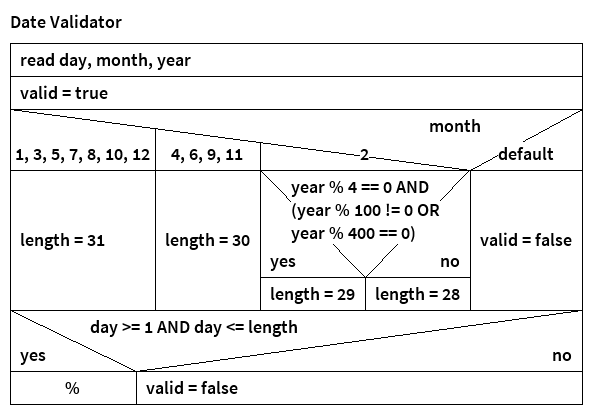
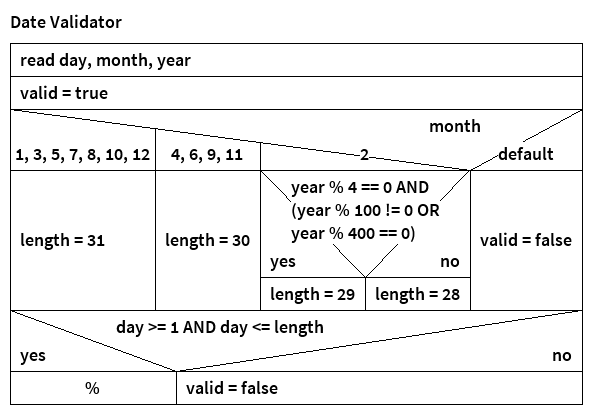
Fix branch layout bug.

diff --git a/src/eu/greenlightning/nsdg/elements/Branch.java b/src/eu/greenlightning/nsdg/elements/Branch.java
@@ -61,7 +61,7 @@ public class Branch implements Element {
 
 	@Override
 	public void paint(Graphics2D g, int width, int height) {
-		double leftPercentage = left.getChild().getWidth(g) / (double) getLabelledWidth(g);
+		double leftPercentage = left.getWidth(g, 10) / (double) getLabelledWidth(g);
 		int center = (int) (leftPercentage * width);
 		int titleHeight = getTitleHeight(g);
 		g.drawRect(0, 0, width, height);
